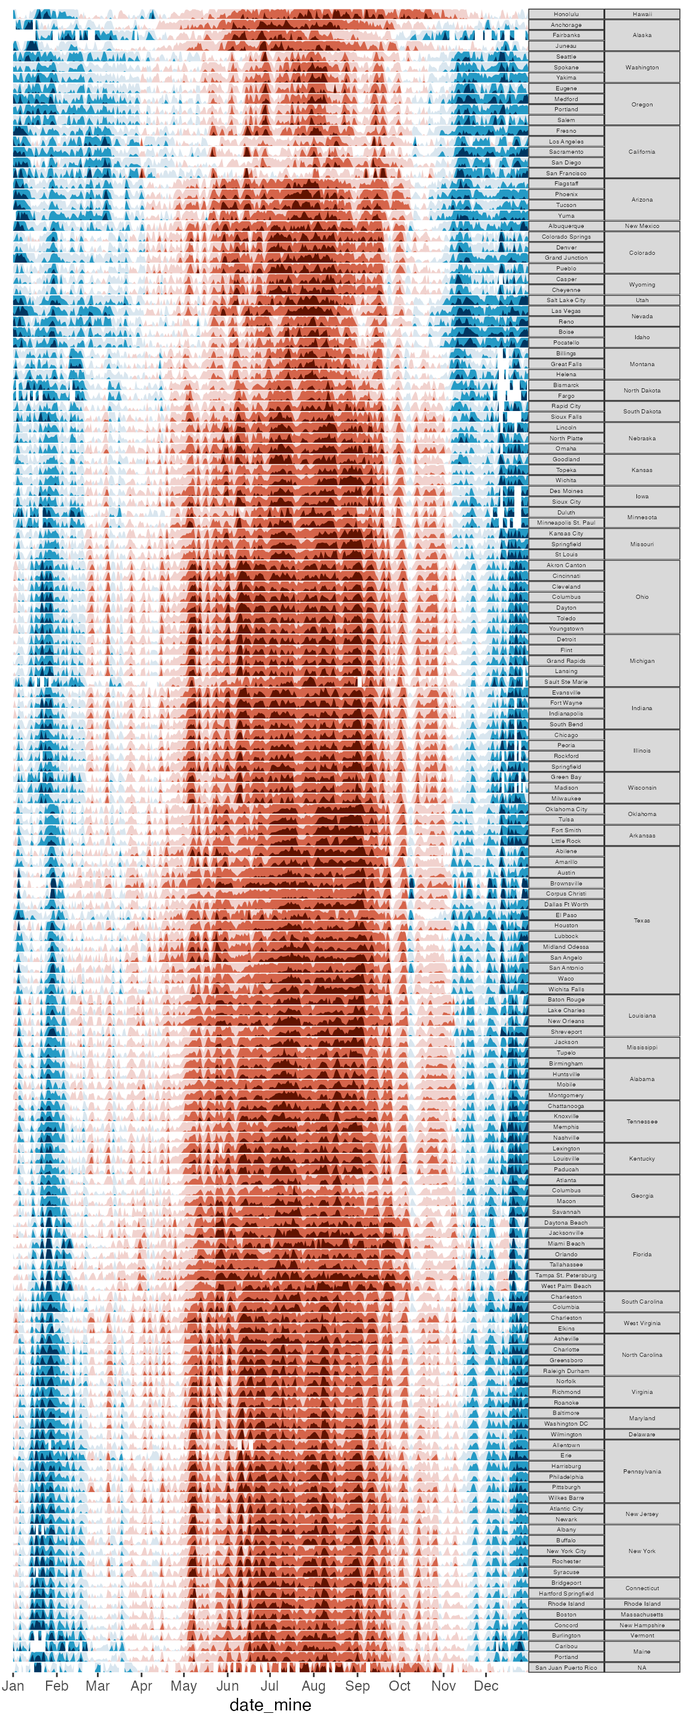
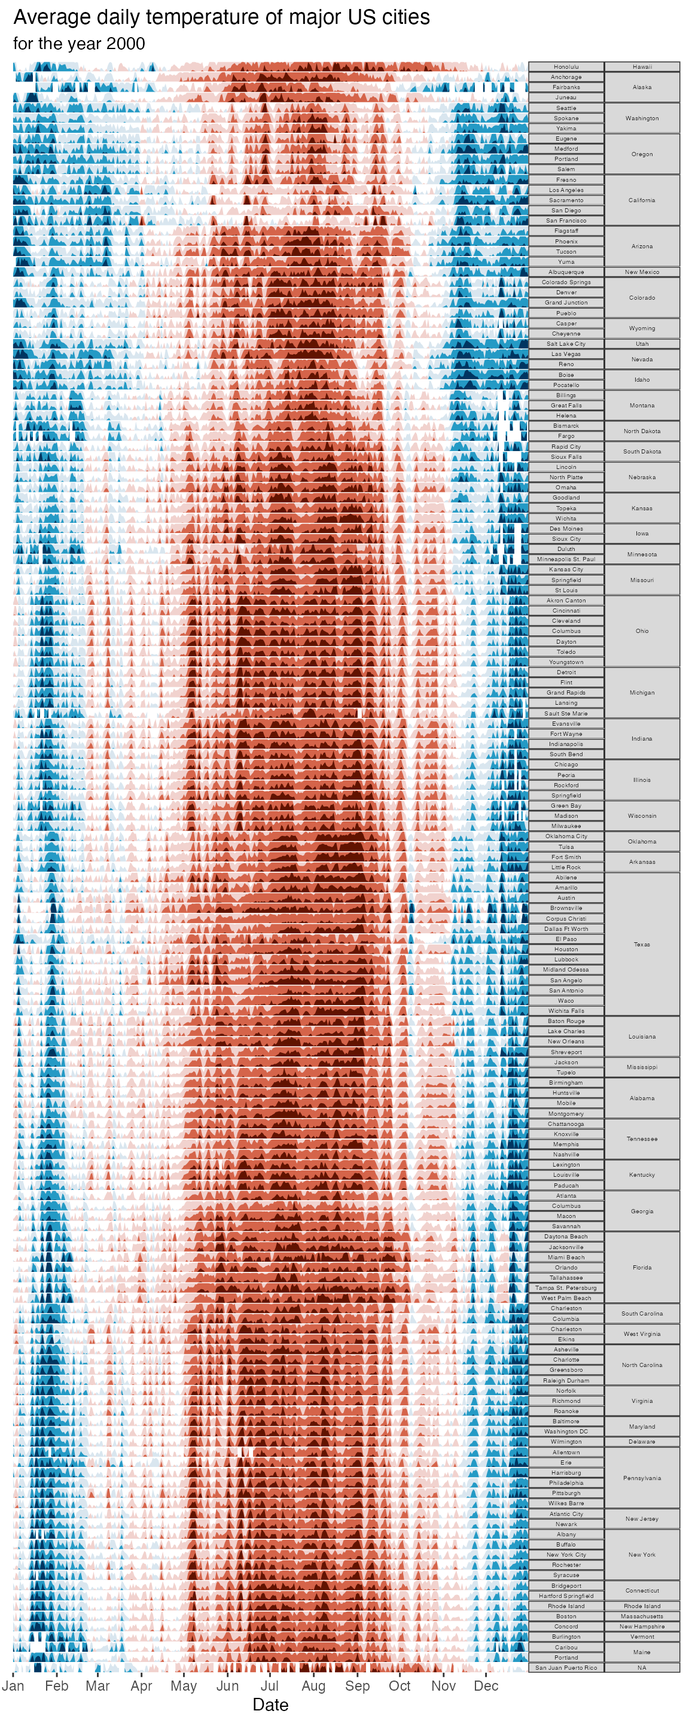
Update facet section in vignette

diff --git a/docs/articles/ggHoriPlot.html b/docs/articles/ggHoriPlot.html
@@ -163,7 +163,7 @@
   <span class="va">p</span><span class="op">+</span><span class="fu">geom_line</span><span class="op">(</span><span class="fu">aes</span><span class="op">(</span><span class="va">x</span>, <span class="va">y</span><span class="op">)</span>, data<span class="op">=</span><span class="va">dat</span><span class="op">)</span><span class="op">+</span>
     <span class="fu"><a href="https://rdrr.io/pkg/ggthemes/man/theme_few.html">theme_few</a></span><span class="op">(</span><span class="op">)</span>
 <span class="op">}</span></code></pre></div>
-<p>We are now all set! By using <code>geom_horizon</code> we can add a layer in the <code>ggplot2</code> framework to build a horizon plot.</p>
+<p>We are now all set! By using <code><a href="../reference/geom_horizon.html">geom_horizon()</a></code> we can add a layer in the <code>ggplot2</code> framework to build a horizon plot.</p>
 <div class="sourceCode" id="cb3"><pre class="downlit sourceCode r">
 <code class="sourceCode R"><span class="va">a</span> <span class="op">&lt;-</span> <span class="va">dat_tab</span> <span class="op">%&gt;%</span> 
   <span class="fu">ggplot</span><span class="op">(</span><span class="op">)</span> <span class="op">+</span>
@@ -171,7 +171,7 @@
 
 <span class="va">a</span></code></pre></div>
 <p><img src="ggHoriPlot_files/figure-html/midpoint_1-1.png" width="768"></p>
-<p>The default <code>ggplot2</code> fill colors might not be the best choice of palette for horizon plots. Instead, we can use the <code>scale_fill_hcl</code> function to choose an appropriate color scheme. The default palette will color low values red and large values blue.</p>
+<p>The default <code>ggplot2</code> fill colors might not be the best choice of palette for horizon plots. Instead, we can use the <code><a href="../reference/scale_fill_hcl.html">scale_fill_hcl()</a></code> function to choose an appropriate color scheme. The default palette will color low values red and large values blue.</p>
 <div class="sourceCode" id="cb4"><pre class="downlit sourceCode r">
 <code class="sourceCode R"><span class="va">a</span> <span class="op">&lt;-</span> <span class="va">dat_tab</span> <span class="op">%&gt;%</span> 
   <span class="fu">ggplot</span><span class="op">(</span><span class="op">)</span> <span class="op">+</span>
@@ -242,7 +242,7 @@
 <div id="median" class="section level2">
 <h2 class="hasAnchor">
 <a href="#median" class="anchor"></a>Median</h2>
-<p>The above example with default settings calculates the origin of the horizon plot as the midpoint between the data range. Sometimes, however, we might want to use some other origin for our data. In <code>ggHoriPlot</code> this can be achieved by specifying the desired <code>origin</code> argument in <code>geom_horizon</code>. For example, if we want to use the median as the origin:</p>
+<p>The above example with default settings calculates the origin of the horizon plot as the midpoint between the data range. Sometimes, however, we might want to use some other origin for our data. In <code>ggHoriPlot</code> this can be achieved by specifying the desired <code>origin</code> argument in <code><a href="../reference/geom_horizon.html">geom_horizon()</a></code>. For example, if we want to use the median as the origin:</p>
 <div class="sourceCode" id="cb7"><pre class="downlit sourceCode r">
 <code class="sourceCode R"><span class="va">a</span> <span class="op">&lt;-</span> <span class="va">dat_tab</span> <span class="op">%&gt;%</span> 
   <span class="fu">ggplot</span><span class="op">(</span><span class="op">)</span> <span class="op">+</span>
@@ -406,7 +406,7 @@
 
 <span class="op">(</span><span class="va">b</span><span class="op">/</span><span class="va">a</span><span class="op">)</span> <span class="op">+</span> <span class="fu"><a href="https://patchwork.data-imaginist.com/reference/plot_layout.html">plot_layout</a></span><span class="op">(</span>guides <span class="op">=</span> <span class="st">'collect'</span>, heights <span class="op">=</span> <span class="fu"><a href="https://rdrr.io/r/base/c.html">c</a></span><span class="op">(</span><span class="fl">6</span>, <span class="fl">1</span><span class="op">)</span><span class="op">)</span></code></pre></div>
 <p><img src="ggHoriPlot_files/figure-html/min-1.png" width="700"></p>
-<p>For this example the red and blue coloring does not make much sense. Instead, you can choose another hcl palette and specify it in <code>scale_fill_hcl</code>. For example, a single-hue palette is much more appropriate:</p>
+<p>For this example the red and blue coloring does not make much sense. Instead, you can choose another hcl palette and specify it in <code><a href="../reference/scale_fill_hcl.html">scale_fill_hcl()</a></code>. For example, a single-hue palette is much more appropriate:</p>
 <div class="sourceCode" id="cb12"><pre class="downlit sourceCode r">
 <code class="sourceCode R"><span class="va">a</span> <span class="op">&lt;-</span> <span class="va">dat_tab</span> <span class="op">%&gt;%</span> 
   <span class="fu">ggplot</span><span class="op">(</span><span class="op">)</span> <span class="op">+</span>
@@ -435,7 +435,7 @@
 
 <span class="op">(</span><span class="va">b</span><span class="op">/</span><span class="va">a</span><span class="op">)</span> <span class="op">+</span> <span class="fu"><a href="https://patchwork.data-imaginist.com/reference/plot_layout.html">plot_layout</a></span><span class="op">(</span>guides <span class="op">=</span> <span class="st">'collect'</span>, heights <span class="op">=</span> <span class="fu"><a href="https://rdrr.io/r/base/c.html">c</a></span><span class="op">(</span><span class="fl">6</span>, <span class="fl">1</span><span class="op">)</span><span class="op">)</span></code></pre></div>
 <p><img src="ggHoriPlot_files/figure-html/min_2-1.png" width="700"></p>
-<p>You can list all available palettes by running <code>hcl.pals</code>.</p>
+<p>You can list all available palettes by running <code><a href="https://rdrr.io/r/grDevices/palettes.html">hcl.pals()</a></code>.</p>
 </div>
 </div>
 <div id="changing-the-horizon-scale" class="section level1">
@@ -540,7 +540,7 @@
 <div id="interval-data" class="section level2">
 <h2 class="hasAnchor">
 <a href="#interval-data" class="anchor"></a>Interval data</h2>
-<p>Some data might have starting and end points for x values. If that is the case, the line chart will have a step-like shape. <code>ggHoriPlot</code> can also plot this kind of data. We simply need to specify the end coordinates using the <code>xend</code> aesthetics inside <code>geom_horizon</code>:</p>
+<p>Some data might have starting and end points for x values. If that is the case, the line chart will have a step-like shape. <code>ggHoriPlot</code> can also plot this kind of data. We simply need to specify the end coordinates using the <code>xend</code> aesthetics inside <code><a href="../reference/geom_horizon.html">geom_horizon()</a></code>:</p>
 <div class="sourceCode" id="cb16"><pre class="downlit sourceCode r">
 <code class="sourceCode R"><span class="va">a</span> <span class="op">&lt;-</span> <span class="va">dat_tab</span> <span class="op">%&gt;%</span> 
   <span class="fu">ggplot</span><span class="op">(</span><span class="op">)</span> <span class="op">+</span>
@@ -576,7 +576,7 @@
 <div id="faceting" class="section level2">
 <h2 class="hasAnchor">
 <a href="#faceting" class="anchor"></a>Faceting</h2>
-<p><code>ggHoriPlot</code> can also be used to facet the data, which is specially useful if different time-series need to be compared:</p>
+<p><code>ggHoriPlot</code> can also be used to facet the data, which is specially useful if different time series need to be compared:</p>
 <div class="sourceCode" id="cb17"><pre class="downlit sourceCode r">
 <code class="sourceCode R"><span class="va">tab_tot</span> <span class="op">%&gt;%</span> 
   <span class="fu">ggplot</span><span class="op">(</span><span class="op">)</span> <span class="op">+</span>
@@ -585,12 +585,34 @@
   <span class="fu"><a href="https://rdrr.io/pkg/ggthemes/man/theme_few.html">theme_few</a></span><span class="op">(</span><span class="op">)</span> <span class="op">+</span>
   <span class="fu"><a href="../reference/scale_fill_hcl.html">scale_fill_hcl</a></span><span class="op">(</span><span class="op">)</span></code></pre></div>
 <p><img src="ggHoriPlot_files/figure-html/faceting-1.png" width="768"></p>
+<p>Note that the cutpoints are calculated per facet separately, so the color of each plot is relative to itself. This can be seen when specifying <code>fill = ..Cutpoints..</code>:</p>
+<div class="sourceCode" id="cb18"><pre class="downlit sourceCode r">
+<code class="sourceCode R"><span class="va">tab_tot</span> <span class="op">%&gt;%</span> 
+  <span class="fu">ggplot</span><span class="op">(</span><span class="op">)</span> <span class="op">+</span>
+  <span class="fu"><a href="../reference/geom_horizon.html">geom_horizon</a></span><span class="op">(</span><span class="fu">aes</span><span class="op">(</span>x <span class="op">=</span> <span class="va">x</span>, y<span class="op">=</span><span class="va">y</span>, fill <span class="op">=</span> <span class="va">..Cutpoints..</span><span class="op">)</span><span class="op">)</span> <span class="op">+</span>
+  <span class="fu">facet_wrap</span><span class="op">(</span><span class="op">~</span><span class="va">type</span>, ncol <span class="op">=</span> <span class="fl">1</span>, scales <span class="op">=</span> <span class="st">'free_y'</span><span class="op">)</span> <span class="op">+</span>
+  <span class="fu"><a href="https://rdrr.io/pkg/ggthemes/man/theme_few.html">theme_few</a></span><span class="op">(</span><span class="op">)</span> <span class="op">+</span>
+  <span class="fu"><a href="../reference/scale_fill_hcl.html">scale_fill_hcl</a></span><span class="op">(</span><span class="op">)</span></code></pre></div>
+<p><img src="ggHoriPlot_files/figure-html/faceting_cutpoints-1.png" width="768"></p>
+<p>Here we can sew how there are six different cutpoints per facet. If we wanted to have the same cutpoints for all the facets, we would need to calculate them and supply them in the <code>horizonscale</code> argument of <code><a href="../reference/geom_horizon.html">geom_horizon()</a></code>:</p>
+<div class="sourceCode" id="cb19"><pre class="downlit sourceCode r">
+<code class="sourceCode R"><span class="va">ori</span> <span class="op">&lt;-</span> <span class="fu"><a href="https://rdrr.io/r/base/sum.html">sum</a></span><span class="op">(</span><span class="fu"><a href="https://rdrr.io/r/base/range.html">range</a></span><span class="op">(</span><span class="va">tab_tot</span><span class="op">$</span><span class="va">y</span><span class="op">)</span><span class="op">)</span><span class="op">/</span><span class="fl">2</span>
+<span class="va">sca</span> <span class="op">&lt;-</span> <span class="fu"><a href="https://rdrr.io/r/base/seq.html">seq</a></span><span class="op">(</span><span class="fu"><a href="https://rdrr.io/r/base/range.html">range</a></span><span class="op">(</span><span class="va">tab_tot</span><span class="op">$</span><span class="va">y</span><span class="op">)</span><span class="op">[</span><span class="fl">1</span><span class="op">]</span>, <span class="fu"><a href="https://rdrr.io/r/base/range.html">range</a></span><span class="op">(</span><span class="va">tab_tot</span><span class="op">$</span><span class="va">y</span><span class="op">)</span><span class="op">[</span><span class="fl">2</span><span class="op">]</span>, length.out <span class="op">=</span> <span class="fl">7</span><span class="op">)</span><span class="op">[</span><span class="op">-</span><span class="fl">4</span><span class="op">]</span>
+
+<span class="va">tab_tot</span> <span class="op">%&gt;%</span> 
+  <span class="fu">ggplot</span><span class="op">(</span><span class="op">)</span> <span class="op">+</span>
+  <span class="fu"><a href="../reference/geom_horizon.html">geom_horizon</a></span><span class="op">(</span><span class="fu">aes</span><span class="op">(</span>x <span class="op">=</span> <span class="va">x</span>, y<span class="op">=</span><span class="va">y</span>, fill <span class="op">=</span> <span class="va">..Cutpoints..</span><span class="op">)</span>,
+               origin <span class="op">=</span> <span class="va">ori</span>, horizonscale <span class="op">=</span> <span class="va">sca</span><span class="op">)</span> <span class="op">+</span>
+  <span class="fu">facet_wrap</span><span class="op">(</span><span class="op">~</span><span class="va">type</span>, ncol <span class="op">=</span> <span class="fl">1</span>, scales <span class="op">=</span> <span class="st">'free_y'</span><span class="op">)</span> <span class="op">+</span>
+  <span class="fu"><a href="https://rdrr.io/pkg/ggthemes/man/theme_few.html">theme_few</a></span><span class="op">(</span><span class="op">)</span> <span class="op">+</span>
+  <span class="fu"><a href="../reference/scale_fill_hcl.html">scale_fill_hcl</a></span><span class="op">(</span><span class="op">)</span></code></pre></div>
+<p><img src="ggHoriPlot_files/figure-html/faceting_calculating_cutpoints-1.png" width="768"></p>
 </div>
 <div id="handling-outliers" class="section level2">
 <h2 class="hasAnchor">
 <a href="#handling-outliers" class="anchor"></a>Handling outliers</h2>
 <p>Outliers or very prominent peaks and valleys might greatly distort a horizon plot making it hard to interpret. For example:</p>
-<div class="sourceCode" id="cb18"><pre class="downlit sourceCode r">
+<div class="sourceCode" id="cb20"><pre class="downlit sourceCode r">
 <code class="sourceCode R"><span class="va">x</span> <span class="op">=</span> <span class="fl">1</span><span class="op">:</span><span class="fl">300</span>
 <span class="va">y</span> <span class="op">=</span> <span class="fu"><a href="https://rdrr.io/r/base/Trig.html">sin</a></span><span class="op">(</span><span class="fl">0.1</span> <span class="op">*</span> <span class="va">x</span><span class="op">)</span> <span class="op">+</span> <span class="fl">50</span><span class="op">*</span><span class="fu"><a href="https://rdrr.io/r/stats/Normal.html">dnorm</a></span><span class="op">(</span><span class="va">x</span>, <span class="fl">150</span>, <span class="fl">2</span><span class="op">)</span>
 <span class="va">dat_tab_outlier</span> <span class="op">&lt;-</span> <span class="fu">tibble</span><span class="op">(</span>x <span class="op">=</span> <span class="va">x</span>,
@@ -619,7 +641,7 @@
 
 <span class="op">(</span><span class="va">b1</span><span class="op">/</span><span class="va">a1</span><span class="op">)</span> <span class="op">+</span> <span class="fu"><a href="https://patchwork.data-imaginist.com/reference/plot_annotation.html">plot_annotation</a></span><span class="op">(</span><span class="st">"origin = 'midpoint', rm.outliers = F"</span><span class="op">)</span><span class="op">+</span> <span class="fu"><a href="https://patchwork.data-imaginist.com/reference/plot_layout.html">plot_layout</a></span><span class="op">(</span>guides <span class="op">=</span> <span class="st">'collect'</span>, heights <span class="op">=</span> <span class="fu"><a href="https://rdrr.io/r/base/c.html">c</a></span><span class="op">(</span><span class="fl">6</span>, <span class="fl">1</span><span class="op">)</span><span class="op">)</span></code></pre></div>
 <p><img src="ggHoriPlot_files/figure-html/midpoint_outlier_1-1.png" width="700"> We might want to use the median instead of the default midpoint to balance the effect of the outlier:</p>
-<div class="sourceCode" id="cb19"><pre class="downlit sourceCode r">
+<div class="sourceCode" id="cb21"><pre class="downlit sourceCode r">
 <code class="sourceCode R"><span class="va">a3</span> <span class="op">&lt;-</span> <span class="va">dat_tab_outlier</span> <span class="op">%&gt;%</span> 
   <span class="fu">ggplot</span><span class="op">(</span><span class="op">)</span> <span class="op">+</span>
   <span class="fu"><a href="../reference/geom_horizon.html">geom_horizon</a></span><span class="op">(</span>
@@ -645,8 +667,8 @@
 <span class="va">b3</span> <span class="op">&lt;-</span> <span class="fu">plotAllLayers</span><span class="op">(</span><span class="va">dat_tab_outlier</span>, <span class="fl">0.07073676</span>, <span class="va">cutpoints_a3</span><span class="op">$</span><span class="va">cuts</span>, <span class="va">cutpoints_a3</span><span class="op">$</span><span class="va">color</span><span class="op">)</span>
 
 <span class="op">(</span><span class="va">b3</span><span class="op">/</span><span class="va">a3</span><span class="op">)</span> <span class="op">+</span> <span class="fu"><a href="https://patchwork.data-imaginist.com/reference/plot_annotation.html">plot_annotation</a></span><span class="op">(</span><span class="st">"origin = 'median', rm.outliers = F"</span><span class="op">)</span><span class="op">+</span> <span class="fu"><a href="https://patchwork.data-imaginist.com/reference/plot_layout.html">plot_layout</a></span><span class="op">(</span>guides <span class="op">=</span> <span class="st">'collect'</span>, heights <span class="op">=</span> <span class="fu"><a href="https://rdrr.io/r/base/c.html">c</a></span><span class="op">(</span><span class="fl">6</span>, <span class="fl">1</span><span class="op">)</span><span class="op">)</span></code></pre></div>
-<p><img src="ggHoriPlot_files/figure-html/midpoint_outlier_2-1.png" width="700"> However, the horizon scale still renders the horizon plot difficult to interpret. Instead, we can tell <code>ggHoriPlot</code> to remove the outliers by setting the <code>rm.outliers</code> argument of <code>geom_horizon</code> to <code>FALSE</code>:</p>
-<div class="sourceCode" id="cb20"><pre class="downlit sourceCode r">
+<p><img src="ggHoriPlot_files/figure-html/midpoint_outlier_2-1.png" width="700"> However, the horizon scale still renders the horizon plot difficult to interpret. Instead, we can tell <code>ggHoriPlot</code> to remove the outliers by setting the <code>rm.outliers</code> argument of <code><a href="../reference/geom_horizon.html">geom_horizon()</a></code> to <code>FALSE</code>:</p>
+<div class="sourceCode" id="cb22"><pre class="downlit sourceCode r">
 <code class="sourceCode R"><span class="va">a2</span> <span class="op">&lt;-</span> <span class="va">dat_tab_outlier</span> <span class="op">%&gt;%</span> 
   <span class="fu">ggplot</span><span class="op">(</span><span class="op">)</span> <span class="op">+</span>
   <span class="fu"><a href="../reference/geom_horizon.html">geom_horizon</a></span><span class="op">(</span>
@@ -678,7 +700,7 @@
 <p><img src="ggHoriPlot_files/figure-html/midpoint_outlier_2_bis-1.png" width="700"></p>
 <p>Ths will remove values below the 0.25 quantile - 1.5 times the interquartile range and above the 0.75 quantile + 1.5 times the interquartile range.</p>
 <p>Another option would be to use a curtom horizon scale, such as the one below:</p>
-<div class="sourceCode" id="cb21"><pre class="downlit sourceCode r">
+<div class="sourceCode" id="cb23"><pre class="downlit sourceCode r">
 <code class="sourceCode R"><span class="va">a4</span> <span class="op">&lt;-</span> <span class="va">dat_tab_outlier</span> <span class="op">%&gt;%</span> 
   <span class="fu">ggplot</span><span class="op">(</span><span class="op">)</span> <span class="op">+</span>
   <span class="fu"><a href="../reference/geom_horizon.html">geom_horizon</a></span><span class="op">(</span>
@@ -712,7 +734,7 @@
 <h2 class="hasAnchor">
 <a href="#handling-of-missing-data" class="anchor"></a>Handling of missing data</h2>
 <p>Missing data is removed from the plot:</p>
-<div class="sourceCode" id="cb22"><pre class="downlit sourceCode r">
+<div class="sourceCode" id="cb24"><pre class="downlit sourceCode r">
 <code class="sourceCode R"><span class="va">x</span> <span class="op">=</span> <span class="fl">1</span><span class="op">:</span><span class="fl">300</span>
 <span class="va">y</span> <span class="op">=</span> <span class="va">x</span> <span class="op">*</span> <span class="fu"><a href="https://rdrr.io/r/base/Trig.html">sin</a></span><span class="op">(</span><span class="fl">0.1</span> <span class="op">*</span> <span class="va">x</span><span class="op">)</span>
 <span class="va">dat_tab_na</span> <span class="op">&lt;-</span> <span class="fu">tibble</span><span class="op">(</span>x <span class="op">=</span> <span class="va">x</span>,
@@ -753,8 +775,8 @@
 <div id="reversing-the-values-below-the-origin" class="section level2">
 <h2 class="hasAnchor">
 <a href="#reversing-the-values-below-the-origin" class="anchor"></a>Reversing the values below the origin</h2>
-<p>Some horizon plots do not reverse the values that are below the origin. If that is the desired output, it can be achieved by setting <code>reverse=T</code> in <code>geom_horizon</code>:</p>
-<div class="sourceCode" id="cb23"><pre class="downlit sourceCode r">
+<p>Some horizon plots do not reverse the values that are below the origin. If that is the desired output, it can be achieved by setting <code>reverse=T</code> in <code><a href="../reference/geom_horizon.html">geom_horizon()</a></code>:</p>
+<div class="sourceCode" id="cb25"><pre class="downlit sourceCode r">
 <code class="sourceCode R"><span class="va">a</span> <span class="op">&lt;-</span> <span class="va">dat_tab</span> <span class="op">%&gt;%</span> 
   <span class="fu">ggplot</span><span class="op">(</span><span class="op">)</span> <span class="op">+</span>
   <span class="fu"><a href="../reference/geom_horizon.html">geom_horizon</a></span><span class="op">(</span>
@@ -789,7 +811,7 @@
 <h2 class="hasAnchor">
 <a href="#mirroring-the-horizon-plot" class="anchor"></a>Mirroring the horizon plot</h2>
 <p>If you cant to mirror the horizon plot, you can do so by setting <code>mirror</code> to <code>TRUE</code>:</p>
-<div class="sourceCode" id="cb24"><pre class="downlit sourceCode r">
+<div class="sourceCode" id="cb26"><pre class="downlit sourceCode r">
 <code class="sourceCode R"><span class="va">a</span> <span class="op">&lt;-</span> <span class="va">dat_tab</span> <span class="op">%&gt;%</span> 
   <span class="fu">ggplot</span><span class="op">(</span><span class="op">)</span> <span class="op">+</span>
   <span class="fu"><a href="../reference/geom_horizon.html">geom_horizon</a></span><span class="op">(</span>

diff --git a/docs/articles/examples.html b/docs/articles/examples.html
@@ -98,7 +98,10 @@
 <code class="sourceCode R"><span class="kw"><a href="https://rdrr.io/r/base/library.html">library</a></span><span class="op">(</span><span class="va"><a href="https://tidyverse.tidyverse.org">tidyverse</a></span><span class="op">)</span>
 <span class="kw"><a href="https://rdrr.io/r/base/library.html">library</a></span><span class="op">(</span><span class="va"><a href="https://github.com/jrnold/ggthemes">ggthemes</a></span><span class="op">)</span>
 <span class="kw"><a href="https://rdrr.io/r/base/library.html">library</a></span><span class="op">(</span><span class="va"><a href="https://rivasiker.github.io/ggHoriPlot/">ggHoriPlot</a></span><span class="op">)</span></code></pre></div>
-<p><a href="https://github.com/halhen/viz-pub/blob/master/sports-time-of-day/activity.tsv" class="uri">https://github.com/halhen/viz-pub/blob/master/sports-time-of-day/activity.tsv</a> <a href="https://eagereyes.org/blog/2017/joy-plots" class="uri">https://eagereyes.org/blog/2017/joy-plots</a></p>
+<div id="peak-time-of-day-for-activities" class="section level2">
+<h2 class="hasAnchor">
+<a href="#peak-time-of-day-for-activities" class="anchor"></a>Peak time of day for activities</h2>
+<p>Sports and leisure activities happen at different times during the day (sources: <a href="https://github.com/halhen/viz-pub/blob/master/sports-time-of-day/activity.tsv" class="uri">https://github.com/halhen/viz-pub/blob/master/sports-time-of-day/activity.tsv</a> <a href="https://eagereyes.org/blog/2017/joy-plots" class="uri">https://eagereyes.org/blog/2017/joy-plots</a>). Horizon plots can be used to condense this time series data into a highly informative and easily interpretable chart:</p>
 <div class="sourceCode" id="cb2"><pre class="downlit sourceCode r">
 <code class="sourceCode R"><span class="fu">utils</span><span class="fu">::</span><span class="fu"><a href="https://rdrr.io/r/utils/data.html">data</a></span><span class="op">(</span><span class="va">sports_time</span><span class="op">)</span>
 
@@ -122,7 +125,11 @@
     labels <span class="op">=</span> <span class="kw">function</span><span class="op">(</span><span class="va">x</span><span class="op">)</span> <span class="op">{</span><span class="fu"><a href="https://rdrr.io/r/base/sprintf.html">sprintf</a></span><span class="op">(</span><span class="st">"%02d:00"</span>, <span class="fu"><a href="https://rdrr.io/r/base/integer.html">as.integer</a></span><span class="op">(</span><span class="va">x</span> <span class="op">%%</span> <span class="fl">24</span><span class="op">)</span><span class="op">)</span><span class="op">}</span><span class="op">)</span> <span class="op">+</span>
   <span class="fu">ggtitle</span><span class="op">(</span><span class="st">'Peak time of day for sports and leisure'</span><span class="op">)</span></code></pre></div>
 <p><img src="examples_files/figure-html/sports_leisure-1.png" width="700"></p>
-<p><a href="https://www.ecdc.europa.eu/en/publications-data/download-todays-data-geographic-distribution-covid-19-cases-worldwide" class="uri">https://www.ecdc.europa.eu/en/publications-data/download-todays-data-geographic-distribution-covid-19-cases-worldwide</a></p>
+</div>
+<div id="covid-19-cases-in-asia" class="section level2">
+<h2 class="hasAnchor">
+<a href="#covid-19-cases-in-asia" class="anchor"></a>COVID-19 cases in Asia</h2>
+<p>COVID-19 cases were recorded in waves across the world (source: <a href="https://www.ecdc.europa.eu/en/publications-data/download-todays-data-geographic-distribution-covid-19-cases-worldwide" class="uri">https://www.ecdc.europa.eu/en/publications-data/download-todays-data-geographic-distribution-covid-19-cases-worldwide</a>). A simple horizon plot is useful for detecting how many waves there have been and when these waves have happened:</p>
 <div class="sourceCode" id="cb3"><pre class="downlit sourceCode r">
 <code class="sourceCode R"><span class="fu">utils</span><span class="fu">::</span><span class="fu"><a href="https://rdrr.io/r/utils/data.html">data</a></span><span class="op">(</span><span class="va">COVID</span><span class="op">)</span>
 
@@ -148,6 +155,11 @@
           <span class="st">'in Asia, 2020'</span><span class="op">)</span> <span class="op">+</span>
   <span class="fu">xlab</span><span class="op">(</span><span class="st">'Date'</span><span class="op">)</span></code></pre></div>
 <p><img src="examples_files/figure-html/covid_19-1.png" width="700"></p>
+</div>
+<div id="simple-repeat-content" class="section level2">
+<h2 class="hasAnchor">
+<a href="#simple-repeat-content" class="anchor"></a>Simple repeat content</h2>
+<p>Horizon plots are also useful to plot genomic data, such as simple repeat content along the human genome (source: <a href="https://genome.ucsc.edu/cgi-bin/hgTrackUi?g=rmsk" class="uri">https://genome.ucsc.edu/cgi-bin/hgTrackUi?g=rmsk</a>):</p>
 <div class="sourceCode" id="cb4"><pre class="downlit sourceCode r">
 <code class="sourceCode R"><span class="fu">utils</span><span class="fu">::</span><span class="fu"><a href="https://rdrr.io/r/utils/data.html">data</a></span><span class="op">(</span><span class="va">rmsk</span><span class="op">)</span>
 
@@ -187,8 +199,11 @@
   <span class="fu">xlab</span><span class="op">(</span><span class="st">'Position'</span><span class="op">)</span> <span class="op">+</span>
   <span class="fu">guides</span><span class="op">(</span>fill<span class="op">=</span><span class="fu">guide_legend</span><span class="op">(</span>title<span class="op">=</span><span class="st">"% of repeats"</span><span class="op">)</span><span class="op">)</span></code></pre></div>
 <p><img src="examples_files/figure-html/repeats-1.png" width="700"></p>
-<p><a href="https://www.kaggle.com/sudalairajkumar/daily-temperature-of-major-cities" class="uri">https://www.kaggle.com/sudalairajkumar/daily-temperature-of-major-cities</a></p>
-<p>Ordering of states taken from <a href="https://benschmidt.org/2014/06/05/optimally-ordering-geographical-entities-in-linear-space/" class="uri">https://benschmidt.org/2014/06/05/optimally-ordering-geographical-entities-in-linear-space/</a></p>
+</div>
+<div id="average-temperature-in-2000-for-major-us-cities" class="section level2">
+<h2 class="hasAnchor">
+<a href="#average-temperature-in-2000-for-major-us-cities" class="anchor"></a>Average temperature in 2000 for major US cities</h2>
+<p>Changes in the average temperature across several geographic locations can also be condensed in horizon plots. For example, the average temperature during 2000 for major US cities (source: <a href="https://www.kaggle.com/sudalairajkumar/daily-temperature-of-major-cities" class="uri">https://www.kaggle.com/sudalairajkumar/daily-temperature-of-major-cities</a>; order of the states:<a href="https://benschmidt.org/2014/06/05/optimally-ordering-geographical-entities-in-linear-space/" class="uri">https://benschmidt.org/2014/06/05/optimally-ordering-geographical-entities-in-linear-space/</a>):</p>
 <div class="sourceCode" id="cb5"><pre class="downlit sourceCode r">
 <code class="sourceCode R"><span class="kw"><a href="https://rdrr.io/r/base/library.html">library</a></span><span class="op">(</span><span class="va"><a href="https://github.com/teunbrand/ggh4x">ggh4x</a></span><span class="op">)</span>
 
@@ -211,8 +226,16 @@
     axis.ticks.y <span class="op">=</span> <span class="fu">element_blank</span><span class="op">(</span><span class="op">)</span>,
     panel.border <span class="op">=</span> <span class="fu">element_blank</span><span class="op">(</span><span class="op">)</span>,panel.grid <span class="op">=</span> <span class="fu">element_blank</span><span class="op">(</span><span class="op">)</span>
     <span class="op">)</span> <span class="op">+</span>
-  <span class="fu">scale_x_date</span><span class="op">(</span>expand<span class="op">=</span><span class="fu"><a href="https://rdrr.io/r/base/c.html">c</a></span><span class="op">(</span><span class="fl">0</span>,<span class="fl">0</span><span class="op">)</span>, date_breaks <span class="op">=</span> <span class="st">"1 month"</span>, date_labels <span class="op">=</span> <span class="st">"%b"</span><span class="op">)</span> </code></pre></div>
+  <span class="fu">scale_x_date</span><span class="op">(</span>expand<span class="op">=</span><span class="fu"><a href="https://rdrr.io/r/base/c.html">c</a></span><span class="op">(</span><span class="fl">0</span>,<span class="fl">0</span><span class="op">)</span>, date_breaks <span class="op">=</span> <span class="st">"1 month"</span>, date_labels <span class="op">=</span> <span class="st">"%b"</span><span class="op">)</span> <span class="op">+</span>
+  <span class="fu">xlab</span><span class="op">(</span><span class="st">'Date'</span><span class="op">)</span> <span class="op">+</span>
+  <span class="fu">ggtitle</span><span class="op">(</span><span class="st">'Average daily temperature of major US cities'</span>, 
+          <span class="st">'for the year 2000'</span><span class="op">)</span></code></pre></div>
 <p><img src="examples_files/figure-html/unnamed-chunk-1-1.png" width="576"></p>
+</div>
+<div id="average-temperature-in-copenhagen" class="section level2">
+<h2 class="hasAnchor">
+<a href="#average-temperature-in-copenhagen" class="anchor"></a>Average temperature in Copenhagen</h2>
+<p>The average daily temperature can also be plotted by year. For example, in Copenhagen:</p>
 <div class="sourceCode" id="cb6"><pre class="downlit sourceCode r">
 <code class="sourceCode R"><span class="fu">utils</span><span class="fu">::</span><span class="fu"><a href="https://rdrr.io/r/utils/data.html">data</a></span><span class="op">(</span><span class="va">climate_CPH</span><span class="op">)</span>
 
@@ -224,7 +247,7 @@
       <span class="fu"><a href="https://rdrr.io/r/stats/quantile.html">quantile</a></span><span class="op">(</span><span class="va">AvgTemperature</span>, <span class="fl">0.75</span>, na.rm<span class="op">=</span><span class="cn">T</span><span class="op">)</span><span class="op">+</span><span class="fl">1.5</span><span class="op">*</span><span class="fu"><a href="https://rdrr.io/r/stats/IQR.html">IQR</a></span><span class="op">(</span><span class="va">AvgTemperature</span>, na.rm<span class="op">=</span><span class="cn">T</span><span class="op">)</span><span class="op">)</span><span class="op">)</span> <span class="op">%&gt;%</span> 
   <span class="fu"><a href="https://rdrr.io/r/stats/filter.html">filter</a></span><span class="op">(</span><span class="va">outlier</span><span class="op">)</span>
 
-<span class="va">ori</span> <span class="op">=</span> <span class="fu"><a href="https://rdrr.io/r/base/sum.html">sum</a></span><span class="op">(</span><span class="fu"><a href="https://rdrr.io/r/base/range.html">range</a></span><span class="op">(</span><span class="va">cutpoints</span><span class="op">$</span><span class="va">AvgTemperature</span><span class="op">)</span><span class="op">)</span><span class="op">/</span><span class="fl">2</span>
+<span class="va">ori</span> <span class="op">&lt;-</span> <span class="fu"><a href="https://rdrr.io/r/base/sum.html">sum</a></span><span class="op">(</span><span class="fu"><a href="https://rdrr.io/r/base/range.html">range</a></span><span class="op">(</span><span class="va">cutpoints</span><span class="op">$</span><span class="va">AvgTemperature</span><span class="op">)</span><span class="op">)</span><span class="op">/</span><span class="fl">2</span>
 <span class="va">sca</span> <span class="op">&lt;-</span> <span class="fu"><a href="https://rdrr.io/r/base/seq.html">seq</a></span><span class="op">(</span><span class="fu"><a href="https://rdrr.io/r/base/range.html">range</a></span><span class="op">(</span><span class="va">cutpoints</span><span class="op">$</span><span class="va">AvgTemperature</span><span class="op">)</span><span class="op">[</span><span class="fl">1</span><span class="op">]</span>, <span class="fu"><a href="https://rdrr.io/r/base/range.html">range</a></span><span class="op">(</span><span class="va">cutpoints</span><span class="op">$</span><span class="va">AvgTemperature</span><span class="op">)</span><span class="op">[</span><span class="fl">2</span><span class="op">]</span>, length.out <span class="op">=</span> <span class="fl">7</span><span class="op">)</span><span class="op">[</span><span class="op">-</span><span class="fl">4</span><span class="op">]</span>
   
 
@@ -244,13 +267,21 @@
     axis.ticks.y <span class="op">=</span> <span class="fu">element_blank</span><span class="op">(</span><span class="op">)</span>,
     panel.border <span class="op">=</span> <span class="fu">element_blank</span><span class="op">(</span><span class="op">)</span>
     <span class="op">)</span> <span class="op">+</span>
-  <span class="fu">scale_x_date</span><span class="op">(</span>expand<span class="op">=</span><span class="fu"><a href="https://rdrr.io/r/base/c.html">c</a></span><span class="op">(</span><span class="fl">0</span>,<span class="fl">0</span><span class="op">)</span>, date_breaks <span class="op">=</span> <span class="st">"1 month"</span>, date_labels <span class="op">=</span> <span class="st">"%b"</span><span class="op">)</span> </code></pre></div>
+  <span class="fu">scale_x_date</span><span class="op">(</span>expand<span class="op">=</span><span class="fu"><a href="https://rdrr.io/r/base/c.html">c</a></span><span class="op">(</span><span class="fl">0</span>,<span class="fl">0</span><span class="op">)</span>, 
+               date_breaks <span class="op">=</span> <span class="st">"1 month"</span>, 
+               date_labels <span class="op">=</span> <span class="st">"%b"</span><span class="op">)</span> <span class="op">+</span>
+  <span class="fu">xlab</span><span class="op">(</span><span class="st">'Date'</span><span class="op">)</span> <span class="op">+</span>
+  <span class="fu">ggtitle</span><span class="op">(</span><span class="st">'Average daily temperature in Copenhagen'</span>, 
+          <span class="st">'from 1995 to 2019'</span><span class="op">)</span></code></pre></div>
 <p><img src="examples_files/figure-html/unnamed-chunk-2-1.png" width="700"></p>
+</div>
   </div>
 
   <div class="col-md-3 hidden-xs hidden-sm" id="pkgdown-sidebar">
 
-      </div>
+        <nav id="toc" data-toggle="toc"><h2 data-toc-skip>Contents</h2>
+    </nav>
+</div>
 
 </div>
 

diff --git a/docs/index.html b/docs/index.html
@@ -126,7 +126,7 @@
 
 <span class="fu"><a href="https://rdrr.io/r/base/Round.html">round</a></span><span class="op">(</span><span class="va">sca</span>, <span class="fl">2</span><span class="op">)</span> <span class="co"># The horizon scale cutpoints</span>
 <span class="co">#&gt; [1] -12.11  -5.88   0.35  12.81  19.05  25.28</span></code></pre></div>
-<p>Build the horizon plots in <code>ggplot2</code> using <code>geom_horizon</code>:</p>
+<p>Build the horizon plots in <code>ggplot2</code> using <code><a href="reference/geom_horizon.html">geom_horizon()</a></code>:</p>
 <div class="sourceCode" id="cb4"><pre class="downlit sourceCode r">
 <code class="sourceCode R"><span class="va">climate_CPH</span> <span class="op">%&gt;%</span> <span class="fu">ggplot</span><span class="op">(</span><span class="op">)</span> <span class="op">+</span>
   <span class="fu"><a href="reference/geom_horizon.html">geom_horizon</a></span><span class="op">(</span><span class="fu">aes</span><span class="op">(</span><span class="va">date_mine</span>, 

diff --git a/README.md b/README.md
@@ -55,7 +55,7 @@ round(sca, 2) # The horizon scale cutpoints
 #> [1] -12.11  -5.88   0.35  12.81  19.05  25.28
 ```
 
-Build the horizon plots in `ggplot2` using `geom_horizon`:
+Build the horizon plots in `ggplot2` using `geom_horizon()`:
 
 ``` r
 climate_CPH %>% ggplot() +
